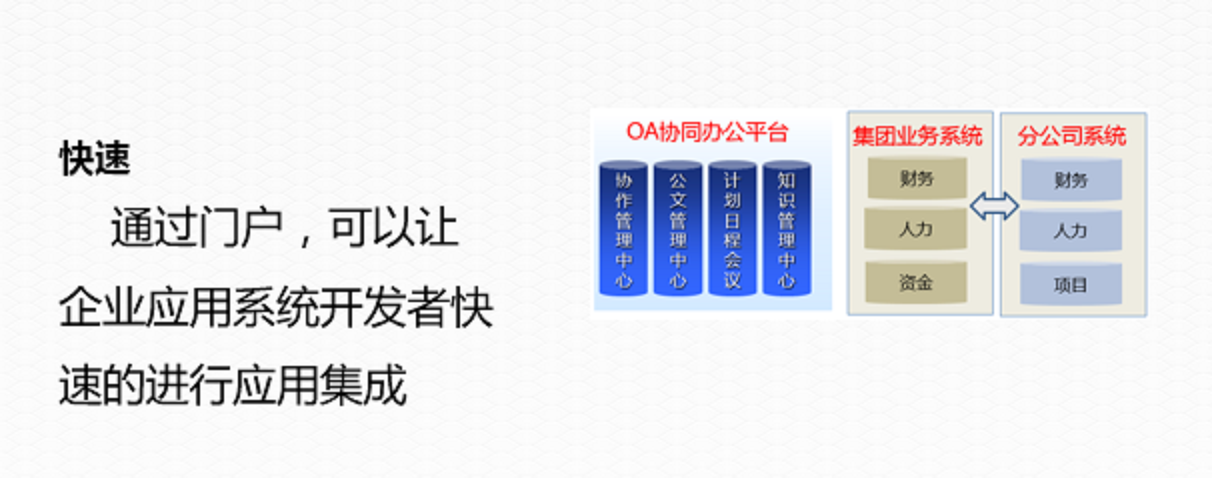
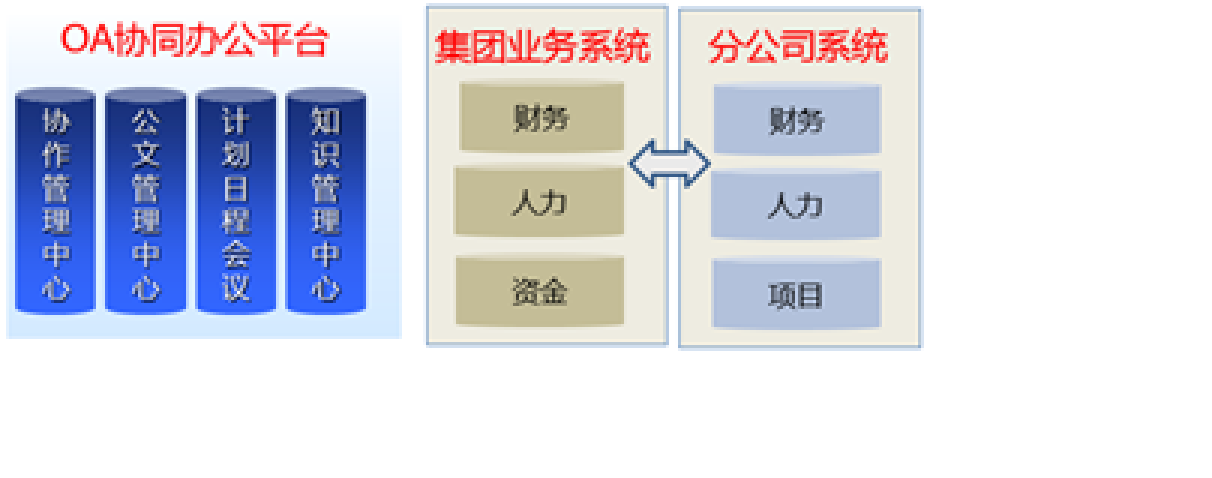
3

diff --git a/articles/cportal/1-/scenarios.md b/articles/cportal/1-/scenarios.md
@@ -1,7 +1,30 @@
 ## 应用场景
 
+### 灵活定制
+
+用户按照企业需要可以灵活定制开发企业自己的主页框架。
+
+### 按需组装
+
+企业中每个角色的职责都有明确的规定，每个角色下的业务人员在使用软件产品时都只关注符合自己角色的业务，通过把业务widget按照角色的业务需求组装成首页就可满足业务需求
+
 ![](/articles/cportal/1-/images/2.PNG)
+<p align="center">图 1</p>
+
+### 统一访问入口
+
+为企业的各类角色、各种业务系统和信息资源提供统一访问入口，方便最终用户快速的进行应用导航，保证高效快捷的完成工作
+
+### 强化用户体验
+
+每个用户都有自己独特的习惯和喜好，最终用户对于系统默认的首页，可以按照自己的工作重点和工作习惯灵活个性化自己的工作台
 
 ![](/articles/cportal/1-/images/3.PNG)
+<p align="center">图 2</p>
+
+### 快速
+
+通过门户，可以让企业应用系统开发者快速的进行应用集成
 
 ![](/articles/cportal/1-/images/4.PNG)
+<p align="center">图 3</p>

diff --git a/articles/cportal/1-/Introduction.md b/articles/cportal/1-/Introduction.md
@@ -1,6 +1,6 @@
 ## 产品概述
 
-### 云门户是什么
+### 云门户是什么？
 
 云门户完全基于互联网架构，在Portal中间件和工作台的基础之上开发的，提供单点登录集成、应用集成、待办任务集成、消息集成，向企业提供统一的访问各种相关信息、业务流程和人员等信息资源的入口，企业内和企业外的各类用户可以通过这个门户获得个性化的信息和服务。企业门户支持云计算和多租户架构，支撑独立部署，公有云部署。通过企业门户，使用者可以基于企业门户扩展出自己风格的门户网站，使用个性化的、统一的方式集成企业相关信息、业务流程和人员等信息，让使用者可以使用一个统一的页面框架和可视化的组件结构来聚合和提供各种各样的内容、应用、内容及应用的混合。
 
